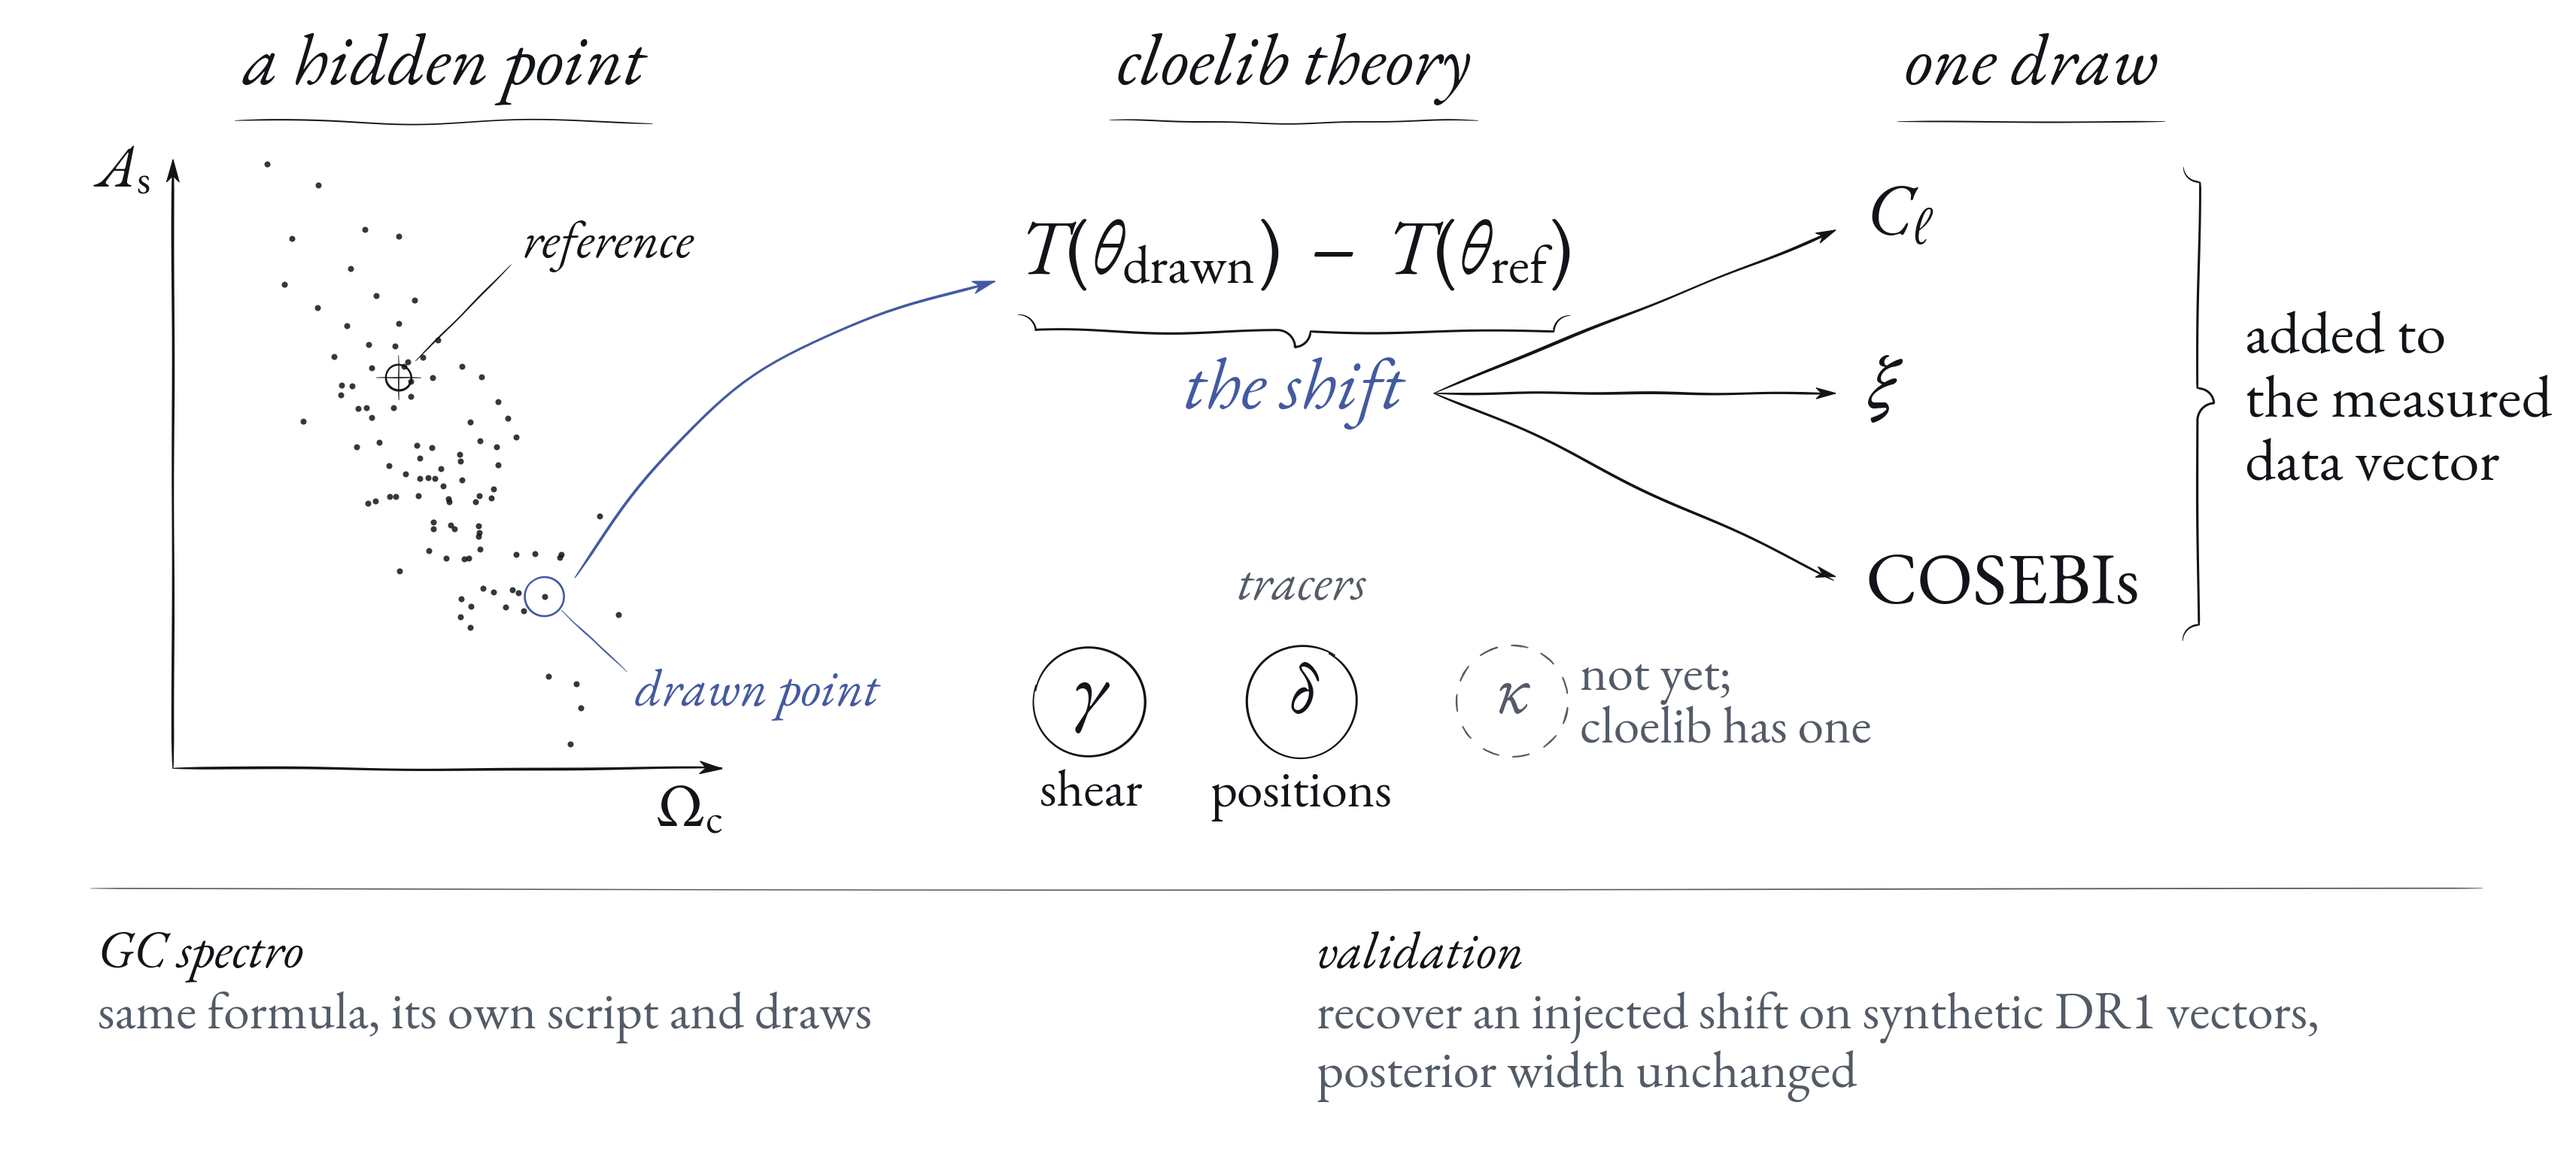
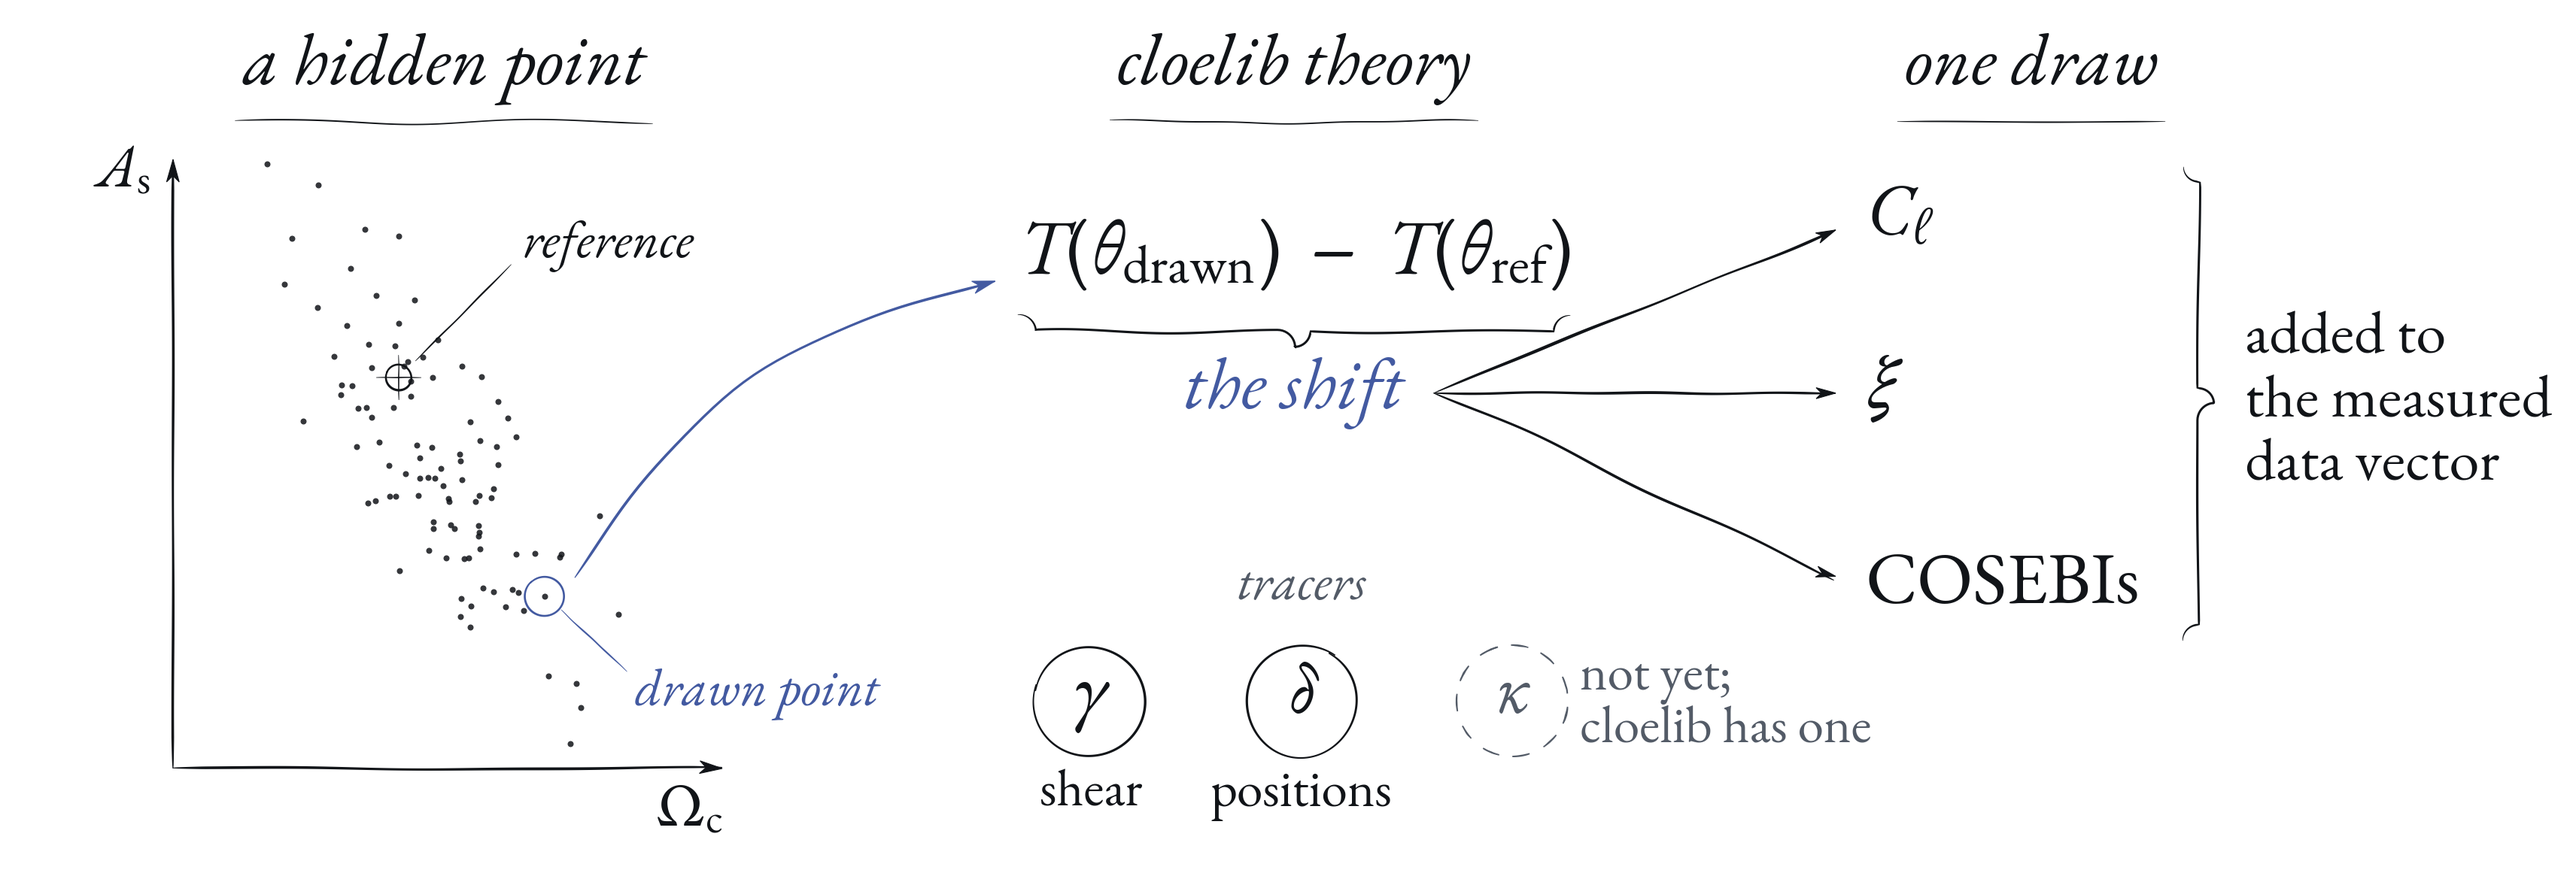
Paris SWG deck: blinding slides 8–10 after Cail's round (blindspot link bullet, plain statuses, trimmed blindspot drawing, proposal table with where the blind is applied)
Claude-Session: https://claude.ai/code/session_01JK7o9HQFtTAoK55UCp43N6

diff --git a/2611_Paris_SWG/slides/size.html b/2611_Paris_SWG/slides/size.html
@@ -1,17 +1,19 @@
 <section data-layout="table">
-  <h2>I propose the same shift parameters as 3×2pt</h2>
-  <table>
+  <h2>Proposal: same shift parameters as 3×2pt</h2>
+  <table class="large">
     <tr><th></th><th>3×2pt</th><th>mine today</th><th>proposed</th></tr>
     <tr><td>parameters</td><td>$\Omega_c$, $A_s$</td><td>$\Omega_\mathrm{m}$, $S_8$</td><td>$\Omega_c$, $A_s$</td></tr>
-    <tr><td>drawn from</td><td>mock posterior</td><td>uniform box</td><td>a nowcast posterior</td></tr>
+    <tr><td>drawn from</td><td>mock posterior</td><td>uniform box</td><td>mock posterior*</td></tr>
     <tr><td>reference</td><td>survey fiducial</td><td>Planck 2018</td><td>survey fiducial</td></tr>
-    <tr><td>theory, tool</td><td>cloelib, blindspot</td><td>dr1_cmbx</td><td>cloelib + κ, blindspot</td></tr>
-    <tr><td>hidden point</td><td>JC-1, LE3</td><td>sealed CMBX index</td><td>separate CMBX draw</td></tr>
+    <tr><td>theory, tool</td><td>cloelib, blindspot</td><td>dr1_cmbx</td><td>cloelib</td></tr>
+    <tr><td>applied</td><td>once, on the SAS</td><td>at data-vector creation</td><td>at data-vector creation</td></tr>
+    <tr><td>hidden point</td><td>JC-1, LE3</td><td>sealed CMBX index</td><td>sealed CMBX index</td></tr>
   </table>
-  <span class="source">JC-2 fixes its distribution on 24 Nov.</span>
+  <span class="source">* nowcast could inform DR1-like mocks · JC-2 fixes its distribution on 24 Nov.</span>
   <aside class="notes">
     <ul class="skim">
-      <li><strong>The proposal</strong> — my working stance: CMBX shifts the same parameters as the WL/3×2pt blind, drawn the same way, and computes the shifts with blindspot on cloelib. The draw stays separate, as Euclid policy requires. Drawing from a posterior before the data exist means a posterior on synthetic data, so the CMBX draw would come from a chain on the DR1 nowcast vectors, as the 3×2pt validation uses.</li>
+      <li><strong>The proposal</strong> — my working stance: CMBX shifts the same parameters as the WL/3×2pt blind, drawn the same way, and computes the shifts with cloelib. The draw stays separate, as Euclid policy requires. Drawing from a posterior before the data exist means a posterior on mocks; the DR1 nowcast could inform DR1-like mocks for that.</li>
+      <li><strong>Applied</strong> — 3×2pt produces one shift with the blindspot notebook and has it applied once to the data vectors on the SAS, so a notebook is enough. The CMBX vectors are not made on the SAS, so the shift has to be added where each data vector is computed, inside the pipeline; that needs cloelib called from the pipeline, not the blindspot notebook.</li>
       <li><strong>3×2pt column</strong> — the blindspot photometric notebook as JC-2 is validating it (previous slides). Its distribution is still open: a mock WL posterior, a posterior of the probe being blinded, or uniform priors.</li>
       <li><strong>CMBX today</strong> — Redmine #31813, dr1_cmbx MR !9: uniform within ±0.1 in $\Omega_\mathrm{m}$ and ±0.075 in $S_8$ of Planck 2018, added to every spectrum when it is written.</li>
       <li><strong>What would change</strong> — the parametrisation, the distribution, the reference cosmology and the theory code. The mechanics stay: an additive theory difference applied at write time, a sealed choice.</li>

diff --git a/2611_Paris_SWG/slides/landscape.html b/2611_Paris_SWG/slides/landscape.html
@@ -2,13 +2,12 @@
   <h2>Every group blinds its 2-point statistics separately</h2>
   <table class="large">
     <tr><th>group</th><th>shifts</th><th>drawn from</th><th>status</th></tr>
-    <tr><td>WL / 3×2pt</td><td>$\Omega_c$, $A_s$</td><td>mock WL posterior</td><td>JC-2 decides 24 Nov</td></tr>
-    <tr><td>GC spectro</td><td>$\omega_c$, $w_0$, $w_a$, $h$</td><td>uniform, ≲2σ DR1</td><td>IT2 blinded</td></tr>
+    <tr><td>WL, GC photo, 3×2pt</td><td>$\Omega_c$, $A_s$</td><td>mock WL posterior</td><td>decided 24 Nov</td></tr>
+    <tr><td>GC spectro</td><td>$\omega_c$, $w_0$, $w_a$, $h$</td><td>uniform, ≲2σ DR1</td><td>blinded</td></tr>
     <tr><td>Clusters</td><td>the posterior</td><td>—</td><td>—</td></tr>
-    <tr class="hl"><td>CMBX* (6×2pt)</td><td>$\Omega_\mathrm{m}$, $S_8$</td><td>uniform, ±0.1, ±0.075</td><td>TR1 blind drawn</td></tr>
+    <tr class="hl"><td>CMBX (6×2pt)</td><td>$\Omega_\mathrm{m}$, $S_8$</td><td>uniform, ±0.1, ±0.075</td><td>blinded</td></tr>
   </table>
-  <p>• One blind per key project (2×2pt, 3×2pt, GC spectro, …)<br>• KP leads request unblinding and the SCG decides</p>
-  <p class="source">* provisional · 3×2pt and GC spectro make their shifts with <a href="https://github.com/cloe-org/blindspot">blindspot</a> (github.com/cloe-org/blindspot)</p>
+  <p>• One blind per key project (2×2pt, 3×2pt, GC spectro, …)<br>• KP leads request unblinding and the SCG decides<br>• <svg viewBox="0 0 16 16" width="1em" height="1em" style="vertical-align:-0.12em" aria-label="GitHub"><path fill="currentColor" d="M8 0C3.58 0 0 3.58 0 8c0 3.54 2.29 6.53 5.47 7.59.4.07.55-.17.55-.38 0-.19-.01-.82-.01-1.49-2.01.37-2.53-.49-2.69-.94-.09-.23-.48-.94-.82-1.13-.28-.15-.68-.52-.01-.53.63-.01 1.08.58 1.23.82.72 1.21 1.87.87 2.33.66.07-.52.28-.87.51-1.07-1.78-.2-3.64-.89-3.64-3.95 0-.87.31-1.59.82-2.15-.08-.2-.36-1.02.08-2.12 0 0 .67-.21 2.2.82.64-.18 1.32-.27 2-.27.68 0 1.36.09 2 .27 1.53-1.04 2.2-.82 2.2-.82.44 1.1.16 1.92.08 2.12.51.56.82 1.27.82 2.15 0 3.07-1.87 3.75-3.65 3.95.29.25.54.73.54 1.48 0 1.07-.01 1.93-.01 2.2 0 .21.15.46.55.38A8.013 8.013 0 0016 8c0-4.42-3.58-8-8-8z"></path></svg> <a href="https://github.com/cloe-org/blindspot">blindspot</a></p>
   <aside class="notes">
     <ul class="skim">
       <li><strong>Method</strong> — every row except clusters adds theory at a hidden cosmology minus theory at a reference to the measured statistics (Muir et al. 2020).</li>

diff --git a/2611_Paris_SWG/slides/blindspot.html b/2611_Paris_SWG/slides/blindspot.html
@@ -1,7 +1,7 @@
 <section data-layout="figure">
-  <h2>blindspot makes the 3×2pt shifts for every statistic</h2>
+  <h2>blindspot makes shifts for 3×2pt statistics</h2>
   <figure>
-    <img src="images/paris26_sketch_blindspot.png" alt="Sketch: among candidate draws in the (Omega_c, A_s) plane a hidden point is drawn; cloelib theory at the drawn point minus theory at the reference is the shift; one draw gives the shift for C_ell, xi and COSEBIs, each added to the measured data vector. The tracers are shear and positions; the CMB-lensing tracer kappa is drawn dashed, not yet used, though cloelib has one. GC spectro uses the same formula with its own script and draws. Validation: recover an injected shift on synthetic DR1 vectors, posterior width unchanged">
+    <img src="images/paris26_sketch_blindspot.png" alt="Sketch: among candidate draws in the (Omega_c, A_s) plane a hidden point is drawn; cloelib theory at the drawn point minus theory at the reference is the shift; one draw gives the shift for C_ell, xi and COSEBIs, each added to the measured data vector. The tracers are shear and positions; the CMB-lensing tracer kappa is drawn dashed, not yet used, though cloelib has one.">
   </figure>
   <aside class="notes">
     <ul class="skim">

diff --git a/house/house.css b/house/house.css
@@ -745,6 +745,7 @@ html, body { background: var(--ground); }
 
 /* table — headline and one table */
 .slide[data-layout="table"] > .body { display: flex; flex-direction: column; align-items: flex-start; gap: var(--s3); }
+.slide[data-layout="table"] > .body > p { align-self: stretch; }
 /* data-center: a short table centred in the body, both ways */
 .reveal section[data-center] .slide[data-layout="table"] > .body, .slide[data-layout="table"][data-center] > .body { align-items: center; justify-content: center; }
 

diff --git a/2611_Paris_SWG/make_cloe_sketches.py b/2611_Paris_SWG/make_cloe_sketches.py
@@ -267,11 +267,16 @@ class Plate:
             print(f"  [{name}] {b}")
         return bad
 
-    def save(self, name):
+    def save(self, name, crop_bottom=0):
+        """Write the plate; `crop_bottom` drops that many px of empty plate below the drawing."""
         self.audit(name)
         path = os.path.join(IMG, name)
         self.fig.savefig(path, dpi=DPI, facecolor="white")
         plt.close(self.fig)
+        if crop_bottom:
+            from PIL import Image
+            im = Image.open(path)
+            im.crop((0, 0, im.width, im.height - crop_bottom)).save(path)
         print("wrote", path)
 
 
@@ -341,14 +346,7 @@ def blindspot():
     for i, line in enumerate(["added to", "the measured", "data vector"]):
         p.text(tip[0] + 40, tip[1] + 85 - i * 85, line, size=BODY, ha="left")
 
-    # below the rule: the spectroscopic blind and the validation
-    p.line((120, 360), (3300, 360), w=WEIGHT * 0.5, color=MUTED)
-    p.text(130, 270, "GC spectro", size=SMALL, ha="left", italic=True)
-    p.text(130, 190, "same formula, its own script and draws", size=SMALL, ha="left", color=MUTED)
-    p.text(1750, 270, "validation", size=SMALL, ha="left", italic=True)
-    p.text(1750, 190, "recover an injected shift on synthetic DR1 vectors,", size=SMALL, ha="left", color=MUTED)
-    p.text(1750, 112, "posterior width unchanged", size=SMALL, ha="left", color=MUTED)
-    p.save("paris26_sketch_blindspot.png")
+    p.save("paris26_sketch_blindspot.png", crop_bottom=385)
 
 
 def anatomy():
